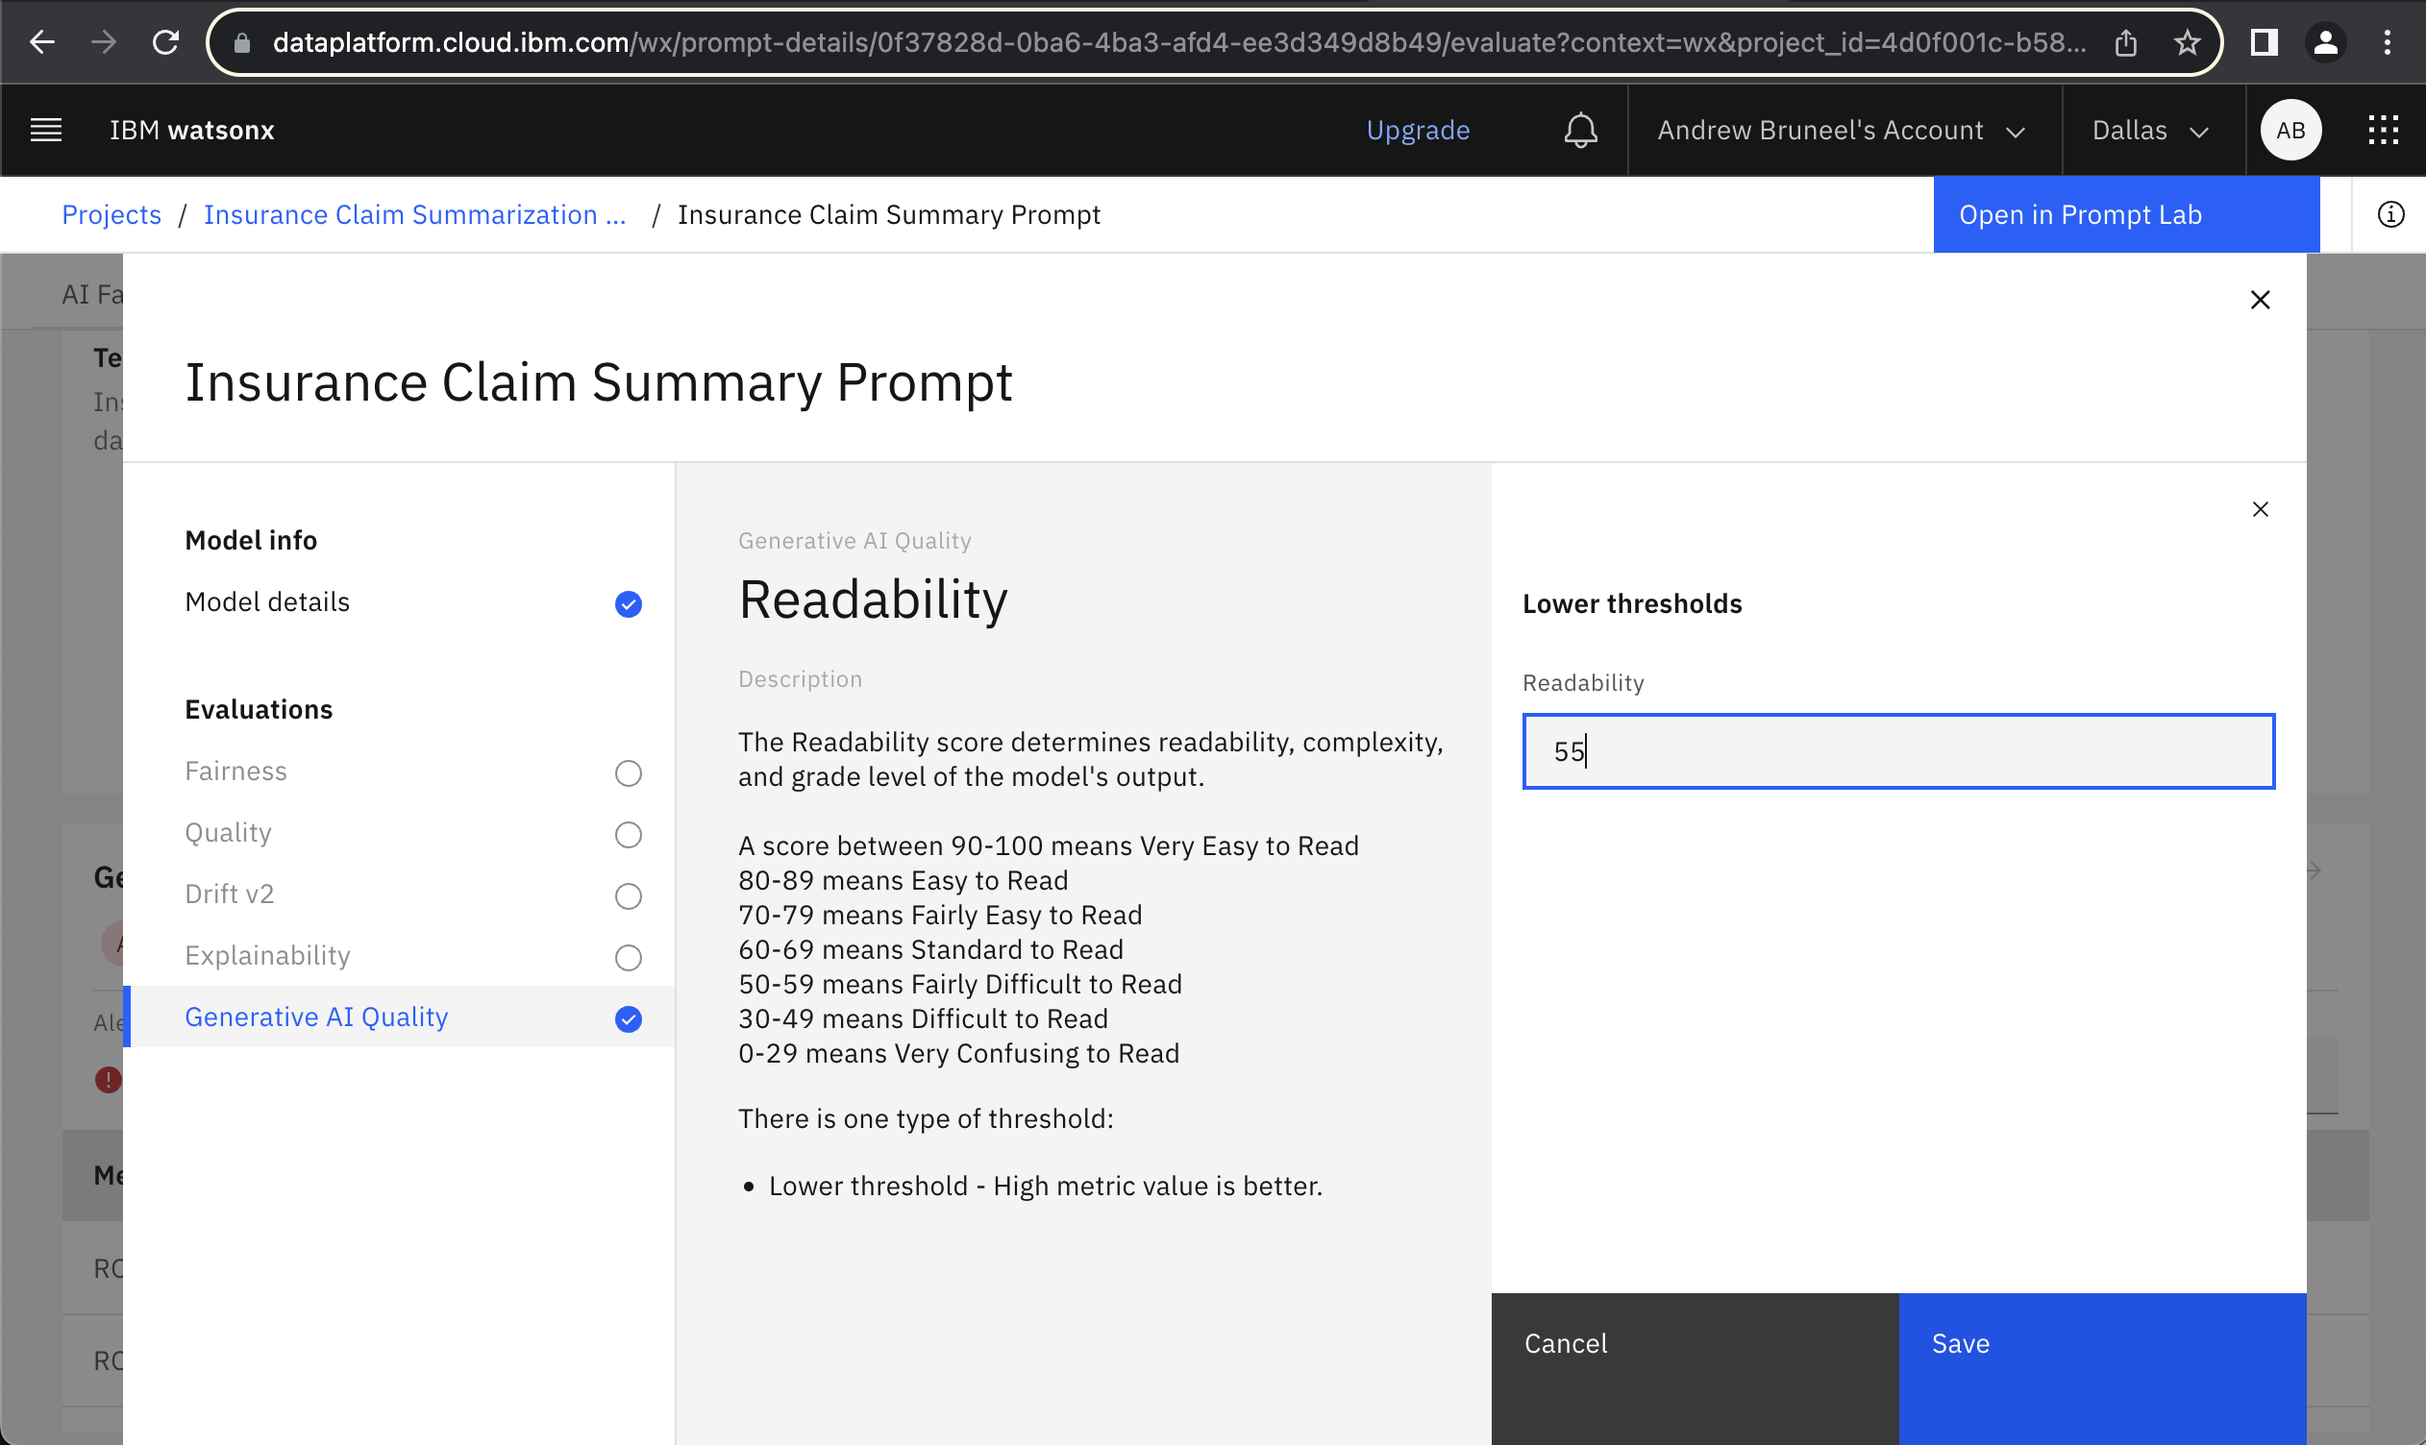
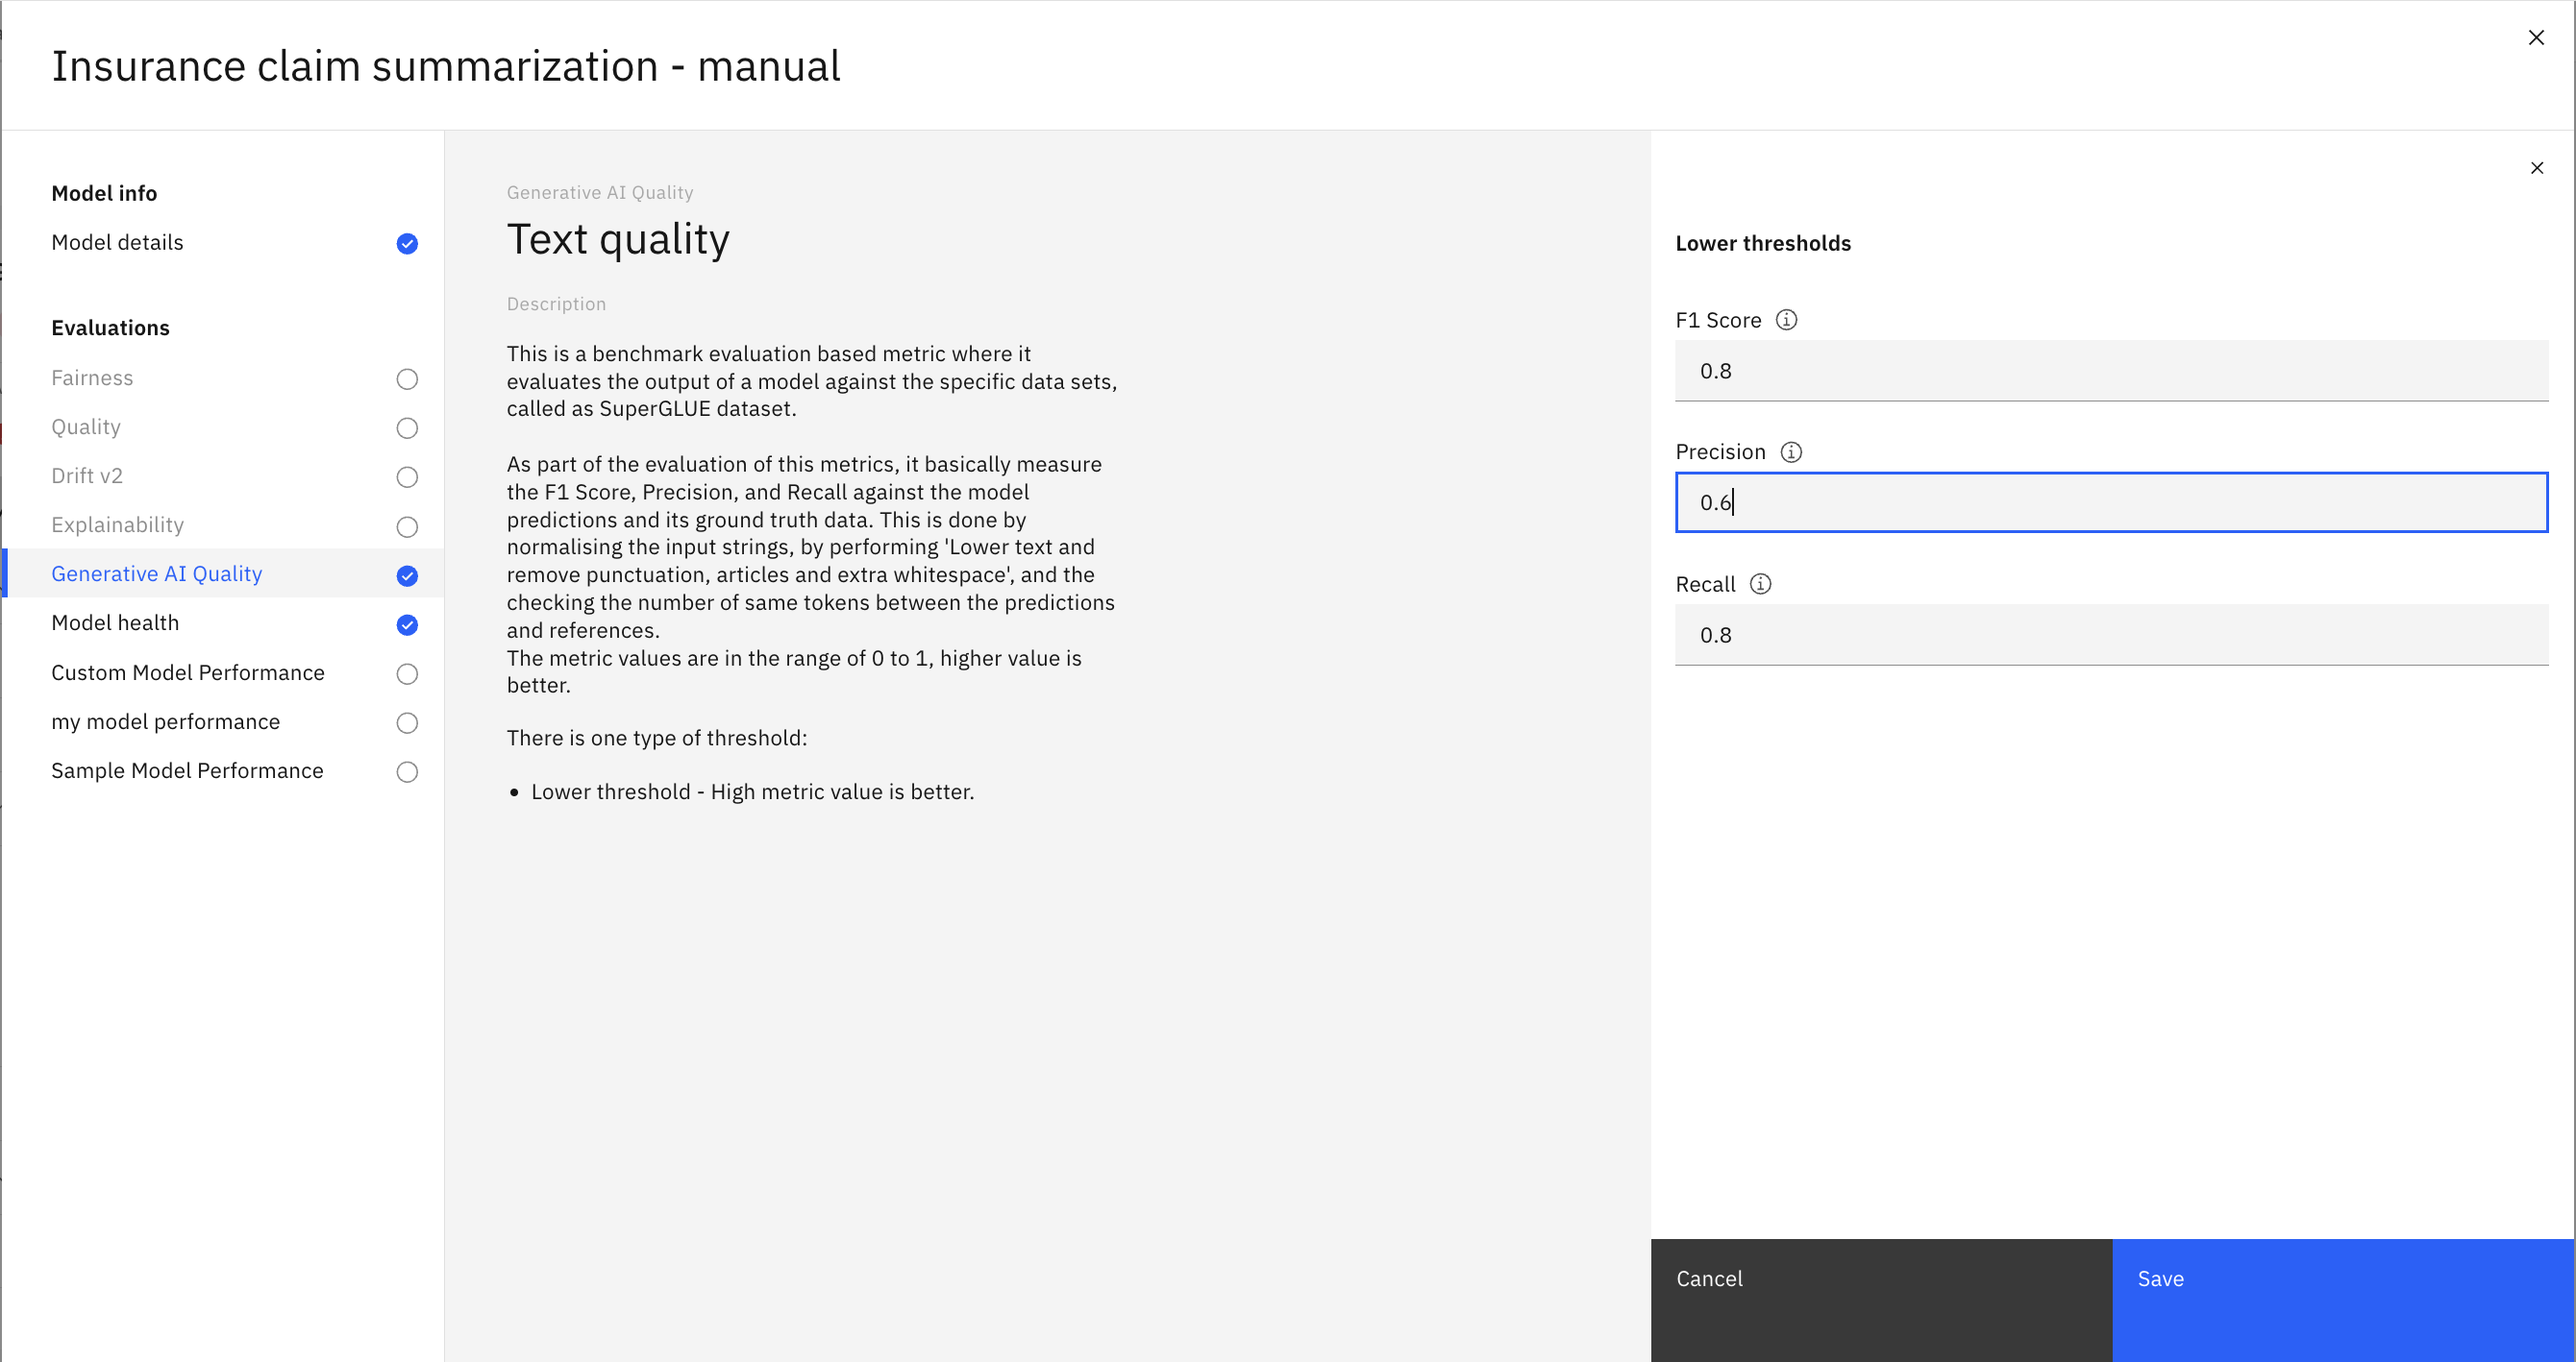
fix screenshots for lab202, and complete README for lab 205

diff --git a/lab202-assisted-prompt-evaluation/readme.md b/lab202-assisted-prompt-evaluation/readme.md
@@ -105,7 +105,7 @@ After that, you will see a screen to review the information you have entered. On
 
 ![Review and eval](images/picture24.png)
 
-Once the evaluation has finished, you should see a screen pop up displaying the results. As you can see here, our evaluation was not very successful, triggering 13 alerts and failing its test. This is to be expected! The goal of this lab is to build on our first prompt that we have created here, and work to achieve better results so that we can deploy our prompt and eventually bring it to production.
+Once the evaluation has finished, you should see a screen pop up displaying the results. As you can see here, our evaluation was not very successful, triggering 12 alerts and failing its test. This is to be expected! The goal of this lab is to build on our first prompt that we have created here, and work to achieve better results so that we can deploy our prompt and eventually bring it to production.
 
 ![Results](images/picture25.png)
 
@@ -145,29 +145,29 @@ With the AI Factsheet open, take time to read through the [generative AI quality
 
 The upside-down triangles represent the measured value for each metrics.  Black triangles good, Red triangles bad.  Look closely and you'll see that your evaluation has only three metrics that pass.
 
-<img width="450" alt="image" src="images/input-data-hap.png">
-
-<img width="450" alt="image" src="images/output-data-hap.png">
-
 <img width="450" alt="image" src="images/input-data-pii.png">
 
-Every metric measuring the quality of a summarization output is in the red.  Hopefully you'll rise to the challenge, choose one of these metrics to improve and build a better prompt for this insurance summarization use case.
+<img width="450" alt="image" src="images/output-data-pii.png">
+
+<img width="450" alt="image" src="images/readability.png">
+
+Most metrics measuring the quality of a summarization output is in the red.  Hopefully you'll rise to the challenge, choose one of these metrics to improve and build a better prompt for this insurance summarization use case.
 
 For now, though, I'll show you how to modify the thresholds for these metric so that your prompt can have looser requirements to pass testing. In a real world use case, this should only be done if absolutely necessary and makes sense for your use case! Head back over to the evaluation screen, where you will see a blue button to the right of "Generative AI Quality - Text Summarization" where we can adjust our thresholds.
 
-![Alter thresholds](images/picture38.png)
+![Alter thresholds](images/picture25.png)
 
 Go ahead and click on that button, and you will be greeted with the following screen:
 
 ![Thresholds screen](images/picture39.png)
 
-Here we are going to adjust the readability metric. This metric is higher if your model's generated responses to your prompt are easy to interpret, and lower if they are confusing to read. Scroll down the page and click the edit button to modify it.
+Here we are going to adjust the text quality - precision metric. This metric is higher if there are fewer words within the generated response that do not exist within the reference response. Scroll down the page and click the edit button to modify it.
 
-![Edit readability](images/picture40.png)
+![Edit text quality precision](images/picture40.png)
 
-Lastly, go ahead and change the readability slightly, say to 55, which puts the requirement into the "Fairly difficult to read" range. After, that, you can go ahead and click save to finalize your changes. Just a reminder here that these metrics should not be altered too much in a real world use case!
+Lastly, go ahead and change the text quality precision to 0.6, which puts the requirement into the acceptable range. After, that, you can go ahead and click save to finalize your changes. Just a reminder here that these metrics should not be altered too much in a real world use case!
 
-![Submit readability](images/picture41.png)
+![Submit threshold change](images/picture41.png)
 
 ---
 #### **Note: Please refer to [this powerpoint](resources/LLM_Metrics.PPTX) for more information on each metric!

diff --git a/lab205-detached-prompt-monitoring/README.md b/lab205-detached-prompt-monitoring/README.md
@@ -1,4 +1,4 @@
-# Lab 205: Automated eval notebook
+# Lab 205: Detached evaluation notebook
 
 ## Summary
 In this lab, we will take you through a Jupyter notebook that shows how to evaluate third-party prompts and models. In particular, we will be evaluating a model hosted on huggingface.
@@ -17,3 +17,33 @@ In the next dialog, select the notebook file for upload and give it a name of yo
 ![Alt text](images/image2.png)
 
 Once you have initiated the runtime and see the notebook loaded, you can step through it. Please study the code, and feel free to experiment and make changes as you see fit. Enjoy!
+
+# Seeing your evaluation within the UI
+
+The detached prompt will be registered as an asset in the project whose project ID you specified. Therefore, when you navigate to your watsonx.ai project, you will be able to view the prompt, as well as the results of your model evaluation.
+
+How your detached prompt should appear within the project:
+
+![Alt text](images/image4.png)
+
+If you click into the prompt, you will be presented with 2 tabs: AI Factsheet and Evaluate. 
+
+In AI Factsheet you can view various pieces of information about your 3rd party model. For example, the model id, the prompt template, as well as any results for tests that you have run. Scroll through the different model facts captured.
+
+![Alt text](images/image5.png)
+
+![Alt text](images/image6.png)
+
+In Evaluate tab, you can view evaluation results in detail.
+
+![Alt text](images/image7.png)
+
+# Tracking your detached prompt within an AI Use Case
+
+Just like regular prompts, detached prompts can also be tracked within AI Use Cases.
+
+To do this, click on the three dots next to your detached prompt asset within the project, then click "Track in AI Use Case". Proceed using the same steps described in lab 203, but create a new AI use case entitled Terms of Service Summarization, and track within this new use case.
+
+![Alt text](images/image8.png)
+
+Once you are done, you will be able to view all the details of the prompt/model within the AI Use Case, as well as manage its lifecycle there.
